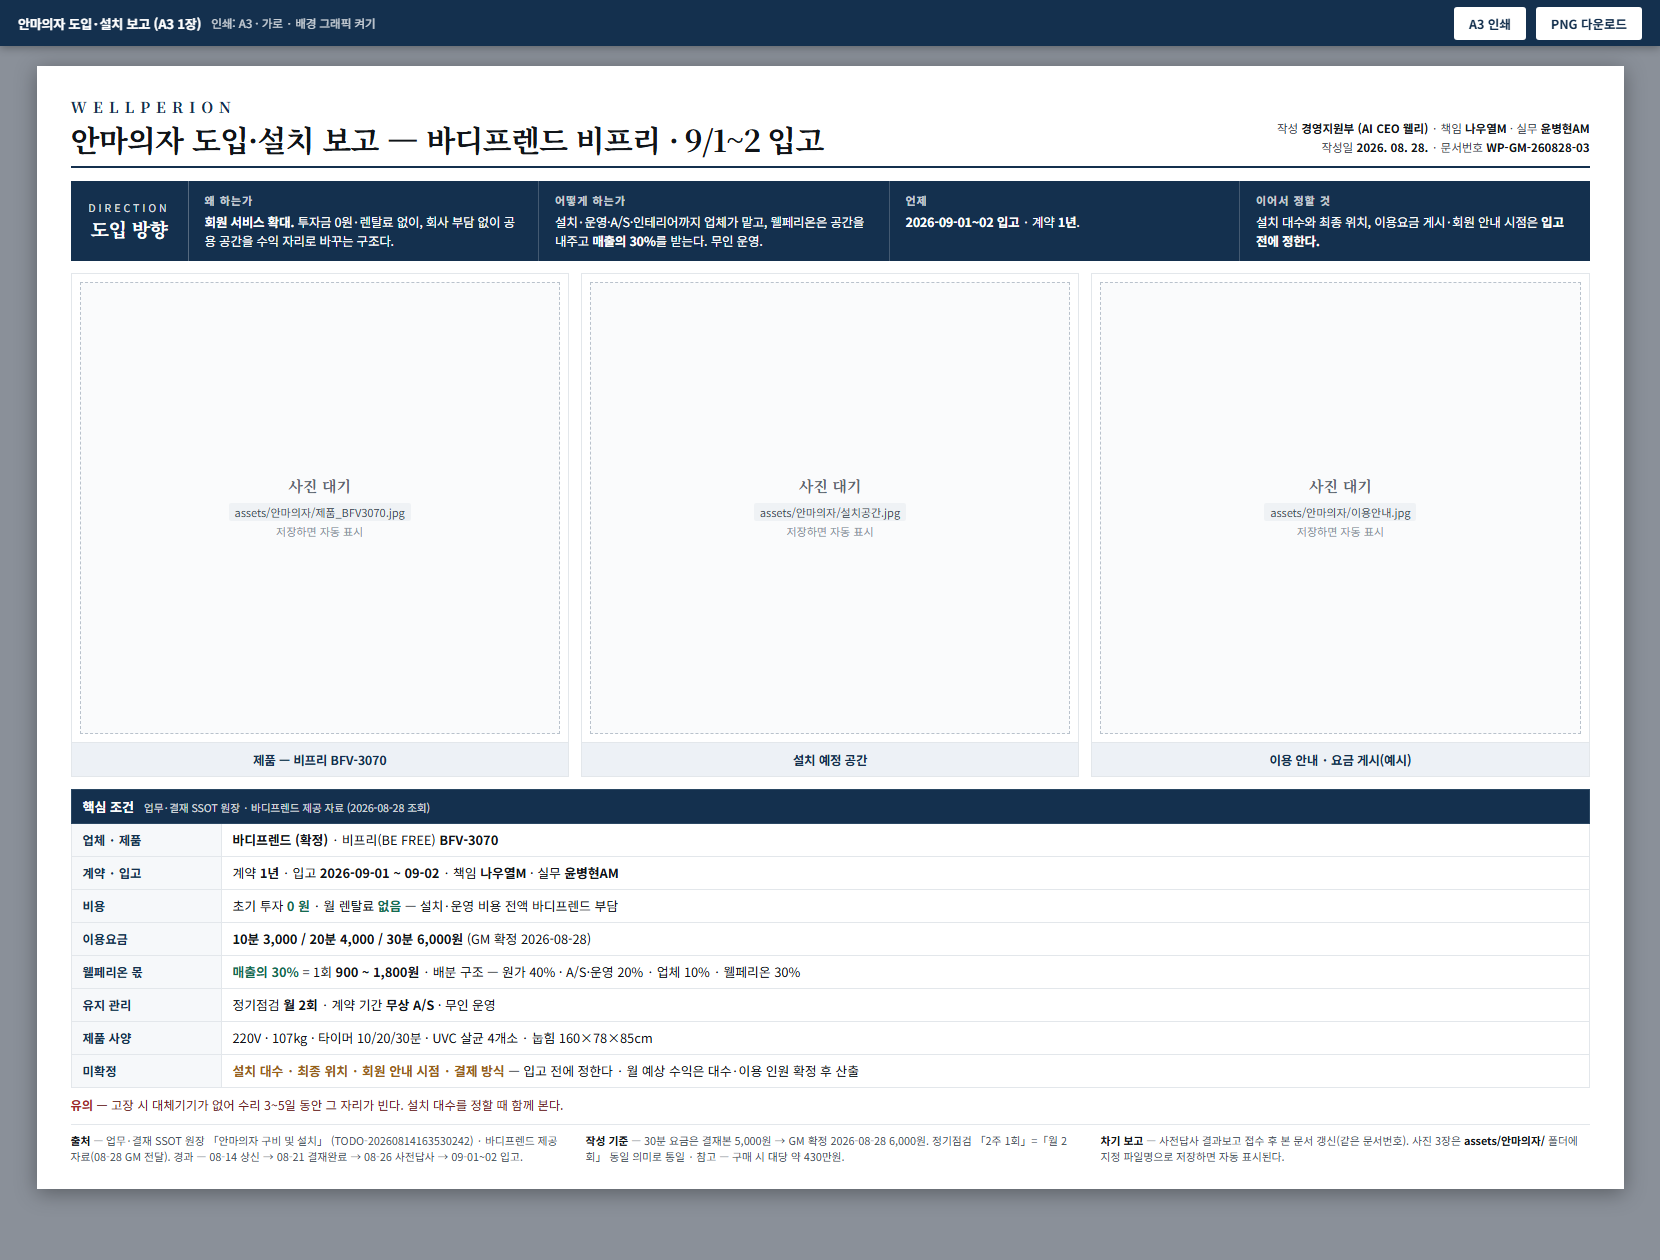
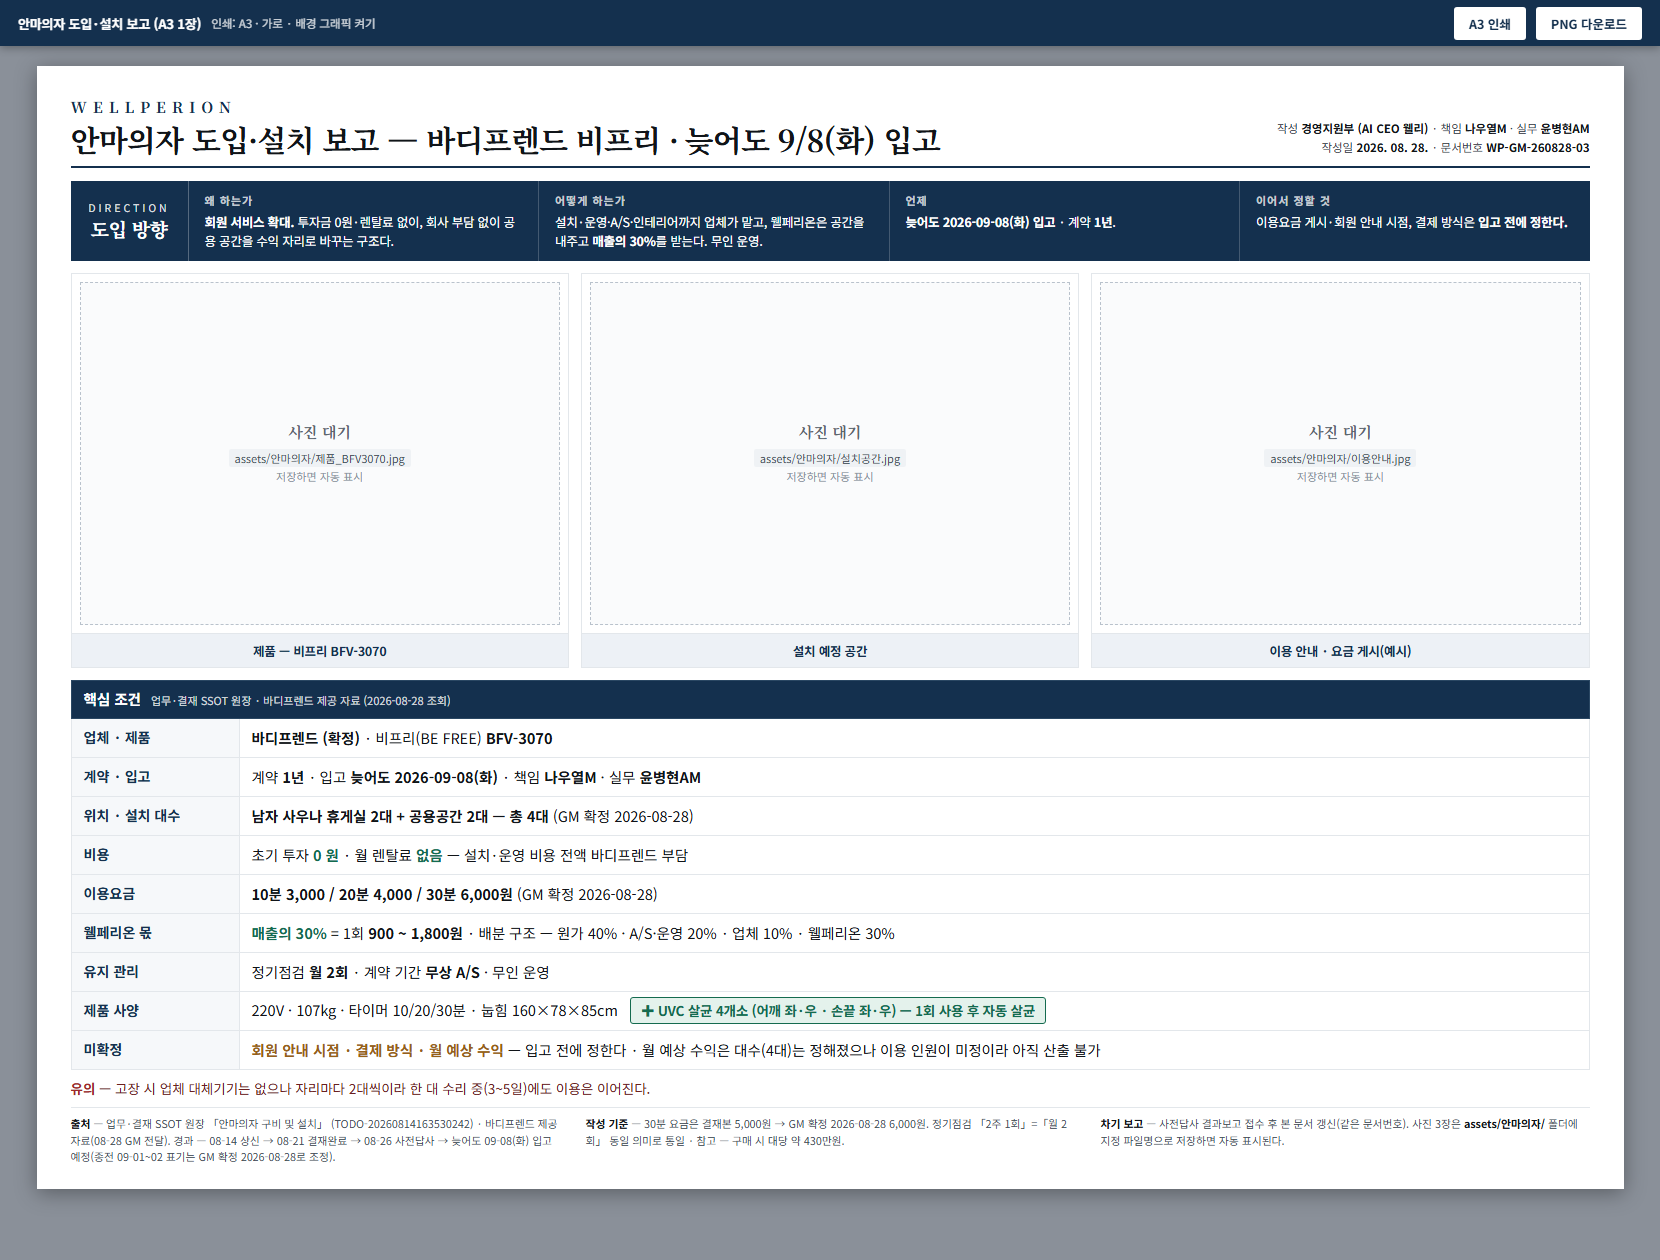
docs(ceo): 안마의자 입고 늦어도 9/8·설치 4대 확정 + A3 글씨 확대·UVC 강조 (GM 확정 2026-08-28)

diff --git a/3. 웰페리온 가이드/reports/260828_안마의자_도입설치_A3.html b/3. 웰페리온 가이드/reports/260828_안마의자_도입설치_A3.html
@@ -70,16 +70,18 @@
   /* ④ 요약표 */
   .tblwrap{ margin-top:12px; }
   table{ width:100%; border-collapse:collapse; table-layout:fixed; }
-  th,td{ border:1px solid var(--line); padding:0 11px; font-size:12.8px; line-height:1.35; }
-  thead th{ height:34px; background:var(--navy); color:#fff; font-weight:700; font-size:13px; border-color:#2A4763; text-align:left; }
-  thead th .sub{ font-size:10.5px; font-weight:400; opacity:.8; margin-left:10px; }
-  tbody td{ height:33px; }
-  td.k{ background:#F6F8FA; font-weight:700; font-size:12.3px; color:var(--navy); width:150px; }
+  th,td{ border:1px solid var(--line); padding:0 12px; font-size:14.5px; line-height:1.35; }
+  thead th{ height:38px; background:var(--navy); color:#fff; font-weight:700; font-size:14.5px; border-color:#2A4763; text-align:left; }
+  thead th .sub{ font-size:11px; font-weight:400; opacity:.8; margin-left:10px; }
+  tbody td{ height:39px; }
+  td.k{ background:#F6F8FA; font-weight:700; font-size:14px; color:var(--navy); width:168px; }
   .good{ color:var(--good); font-weight:700; }
   .warn{ color:var(--warn); font-weight:700; }
+  .uvc{ display:inline-block; background:#E4F2EC; color:var(--good); border:1.5px solid var(--good);
+    border-radius:3px; font-size:13.5px; font-weight:700; padding:3px 10px; margin-left:8px; letter-spacing:-.2px; }
 
   /* 유의사항 한 줄 */
-  .note1{ margin-top:8px; font-size:12.3px; line-height:1.5; color:#6B2020; }
+  .note1{ margin-top:8px; font-size:13.5px; line-height:1.5; color:#6B2020; }
   .note1 b{ color:var(--bad); }
 
   /* ⑤ 각주 */
@@ -105,7 +107,7 @@
   <div class="head">
     <div>
       <div class="brand">WELLPERION</div>
-      <div class="title">안마의자 도입·설치 보고 — 바디프렌드 비프리 · 9/1~2 입고</div>
+      <div class="title">안마의자 도입·설치 보고 — 바디프렌드 비프리 · 늦어도 9/8(화) 입고</div>
     </div>
     <div class="meta">
       작성 <b>경영지원부 (AI CEO 웰리)</b> · 책임 <b>나우열M</b> · 실무 <b>윤병현AM</b><br>
@@ -127,11 +129,11 @@
       </div>
       <div class="it">
         <div class="n">언제</div>
-        <div class="d"><b>2026-09-01~02 입고</b> · 계약 <b>1년</b>.</div>
+        <div class="d"><b>늦어도 2026-09-08(화) 입고</b> · 계약 <b>1년</b>.</div>
       </div>
       <div class="it">
         <div class="n">이어서 정할 것</div>
-        <div class="d">설치 대수와 최종 위치, 이용요금 게시·회원 안내 시점은 <b>입고 전에 정한다.</b></div>
+        <div class="d">이용요금 게시·회원 안내 시점, 결제 방식은 <b>입고 전에 정한다.</b></div>
       </div>
     </div>
   </div>
@@ -167,29 +169,30 @@
   <!-- ④ 요약표 -->
   <div class="tblwrap">
   <table>
-    <colgroup><col style="width:150px"><col></colgroup>
+    <colgroup><col style="width:168px"><col></colgroup>
     <thead>
       <tr><th colspan="2">핵심 조건<span class="sub">업무·결재 SSOT 원장 · 바디프렌드 제공 자료 (2026-08-28 조회)</span></th></tr>
     </thead>
     <tbody>
       <tr><td class="k">업체 · 제품</td><td><b>바디프렌드 (확정)</b> · 비프리(BE FREE) <b>BFV-3070</b></td></tr>
-      <tr><td class="k">계약 · 입고</td><td>계약 <b>1년</b> · 입고 <b>2026-09-01 ~ 09-02</b> · 책임 <b>나우열M</b> · 실무 <b>윤병현AM</b></td></tr>
+      <tr><td class="k">계약 · 입고</td><td>계약 <b>1년</b> · 입고 <b>늦어도 2026-09-08(화)</b> · 책임 <b>나우열M</b> · 실무 <b>윤병현AM</b></td></tr>
+      <tr><td class="k">위치 · 설치 대수</td><td><b>남자 사우나 휴게실 2대 + 공용공간 2대 — 총 4대</b> (GM 확정 2026-08-28)</td></tr>
       <tr><td class="k">비용</td><td>초기 투자 <span class="good">0 원</span> · 월 렌탈료 <span class="good">없음</span> — 설치·운영 비용 전액 바디프렌드 부담</td></tr>
       <tr><td class="k">이용요금</td><td><b>10분 3,000 / 20분 4,000 / 30분 6,000원</b> (GM 확정 2026-08-28)</td></tr>
       <tr><td class="k">웰페리온 몫</td><td><b class="good">매출의 30%</b> = 1회 <b>900 ~ 1,800원</b> · 배분 구조 — 원가 40% · A/S·운영 20% · 업체 10% · 웰페리온 30%</td></tr>
       <tr><td class="k">유지 관리</td><td>정기점검 <b>월 2회</b> · 계약 기간 <b>무상 A/S</b> · 무인 운영</td></tr>
-      <tr><td class="k">제품 사양</td><td>220V · 107kg · 타이머 10/20/30분 · UVC 살균 4개소 · 눕힘 160×78×85cm</td></tr>
-      <tr><td class="k">미확정</td><td><span class="warn">설치 대수 · 최종 위치 · 회원 안내 시점 · 결제 방식</span> — 입고 전에 정한다 · 월 예상 수익은 대수·이용 인원 확정 후 산출</td></tr>
+      <tr><td class="k">제품 사양</td><td>220V · 107kg · 타이머 10/20/30분 · 눕힘 160×78×85cm <span class="uvc">✚ UVC 살균 4개소 (어깨 좌·우 · 손끝 좌·우) — 1회 사용 후 자동 살균</span></td></tr>
+      <tr><td class="k">미확정</td><td><span class="warn">회원 안내 시점 · 결제 방식 · 월 예상 수익</span> — 입고 전에 정한다 · 월 예상 수익은 대수(4대)는 정해졌으나 이용 인원이 미정이라 아직 산출 불가</td></tr>
     </tbody>
   </table>
   </div>
 
   <!-- 유의사항 한 줄 -->
-  <div class="note1"><b>유의</b> — 고장 시 대체기기가 없어 수리 3~5일 동안 그 자리가 빈다. 설치 대수를 정할 때 함께 본다.</div>
+  <div class="note1"><b>유의</b> — 고장 시 업체 대체기기는 없으나 자리마다 2대씩이라 한 대 수리 중(3~5일)에도 이용은 이어진다.</div>
 
   <!-- ⑤ 각주 -->
   <div class="foot">
-    <div><b>출처</b> — 업무·결재 SSOT 원장 「안마의자 구비 및 설치」 (TODO-20260814163530242) · 바디프렌드 제공 자료(08-28 GM 전달). 경과 — 08-14 상신 → 08-21 결재완료 → 08-26 사전답사 → 09-01~02 입고.</div>
+    <div><b>출처</b> — 업무·결재 SSOT 원장 「안마의자 구비 및 설치」 (TODO-20260814163530242) · 바디프렌드 제공 자료(08-28 GM 전달). 경과 — 08-14 상신 → 08-21 결재완료 → 08-26 사전답사 → 늦어도 09-08(화) 입고 예정(종전 09-01~02 표기는 GM 확정 2026-08-28로 조정).</div>
     <div><b>작성 기준</b> — 30분 요금은 결재본 5,000원 → GM 확정 2026-08-28 6,000원. 정기점검 「2주 1회」=「월 2회」 동일 의미로 통일 · 참고 — 구매 시 대당 약 430만원.</div>
     <div><b>차기 보고</b> — 사전답사 결과보고 접수 후 본 문서 갱신(같은 문서번호). 사진 3장은 <b>assets/안마의자/</b> 폴더에 지정 파일명으로 저장하면 자동 표시된다.</div>
   </div>

diff --git a/3. 웰페리온 가이드/coo/chairman/_chairman_items.js b/3. 웰페리온 가이드/coo/chairman/_chairman_items.js
@@ -74,6 +74,6 @@ window.WellperionChairmanItems = [
   { id: "d29", title: "감염병 예방 — 중국 코로나 재확산 대비", when: "회장님 말씀 · GM 전달 2026-08-25 · 3부서 점검·청소 동선에 예방 5항목 반영 완료(새 점검표 없음 · 지원부 G-2/G-3/G-4 · 주차 일일·주간) · 매일 보고 반영 + 실장·소장·전부서 전달 완료 · 구매·관리는 운영부 담당(GM 확정 8/25) · 보고 자료 = A3 1장 준비 완료(결정요청 2건 — 세스코 방역 실시 확인 · 소모품 예산 배정) · 보고일 미정(웰리 제안 1차 점검 9/1 · 보고 9/5)", cat: "시설 및 환경", link: {label: "GM업무 ▸ 감염병 예방 강화", href: "GM업무.html#gm-2026-08-50"} },
   /* d30 = 2026-08-28 GM 지시로 추가. GM 원문: "GM업무 20 바디프렌드 유료 공유 안마의자 도입 관련해서는
    * A3 요약본 해줘, 그리고 회장님 대표님 보고건으로도 올려줘 보고하고 보고완료할게". 보고 전 상태로 등록. */
-  { id: "d30", title: "바디프렌드 유료 공유 안마의자 도입 — 9/1~2 입고", when: "GM 확정 2026-08-28 · 업체 바디프렌드(비프리 BFV-3070) · 계약 1년 · 초기 투자 0원(설치비·운영비 전액 업체) · 이용요금 10분 3,000 / 20분 4,000 / 30분 6,000원 · 매출 30% 웰페리온 배분(1회 900~1,800원) · 월 2회 정기점검·계약 기간 무상 A/S · 결재 완료 2026-08-21 · 입고 전 확정 필요 = 설치 대수·최종 위치 · GM업무 = 20번(2026-08-52) 별도 관리 — 2026-08-28 환원 · 담당 — 책임 나우열M · 실무 윤병현AM (GM 확정 2026-08-28)", cat: "매출 및 영업", link: {label: "A3 ▸ 안마의자 도입·설치 보고", href: "../../reports/260828_안마의자_도입설치_A3.html"} }
+  { id: "d30", title: "바디프렌드 유료 공유 안마의자 도입 — 늦어도 9/8(화) 입고", when: "GM 확정 2026-08-28 · 업체 바디프렌드(비프리 BFV-3070) · 계약 1년 · 초기 투자 0원(설치비·운영비 전액 업체) · 이용요금 10분 3,000 / 20분 4,000 / 30분 6,000원 · 매출 30% 웰페리온 배분(1회 900~1,800원) · 월 2회 정기점검·계약 기간 무상 A/S · 결재 완료 2026-08-21 · 입고 늦어도 2026-09-08(화) · 입고 전 확정 필요 = 회원 안내 시점·결제 방식 · GM업무 = 20번(2026-08-52) 별도 관리 — 2026-08-28 환원 · 담당 — 책임 나우열M · 실무 윤병현AM (GM 확정 2026-08-28) · 설치 4대(남 사우나 휴게실 2 + 공용공간 2 · GM 확정 2026-08-28)", cat: "매출 및 영업", link: {label: "A3 ▸ 안마의자 도입·설치 보고", href: "../../reports/260828_안마의자_도입설치_A3.html"} }
 ];
 })();
